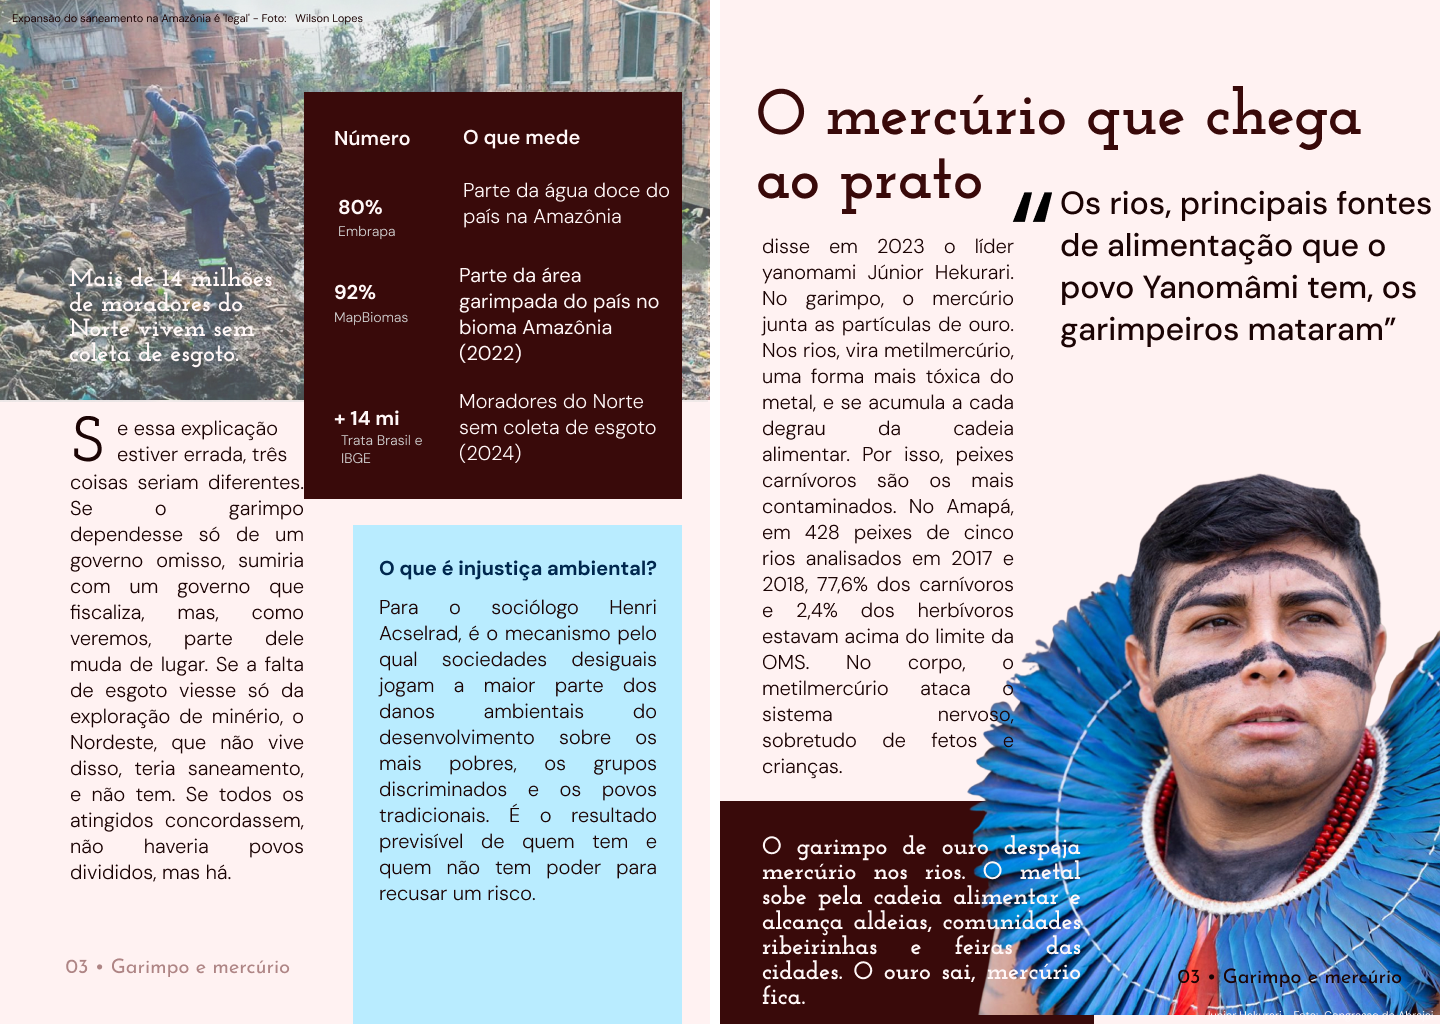
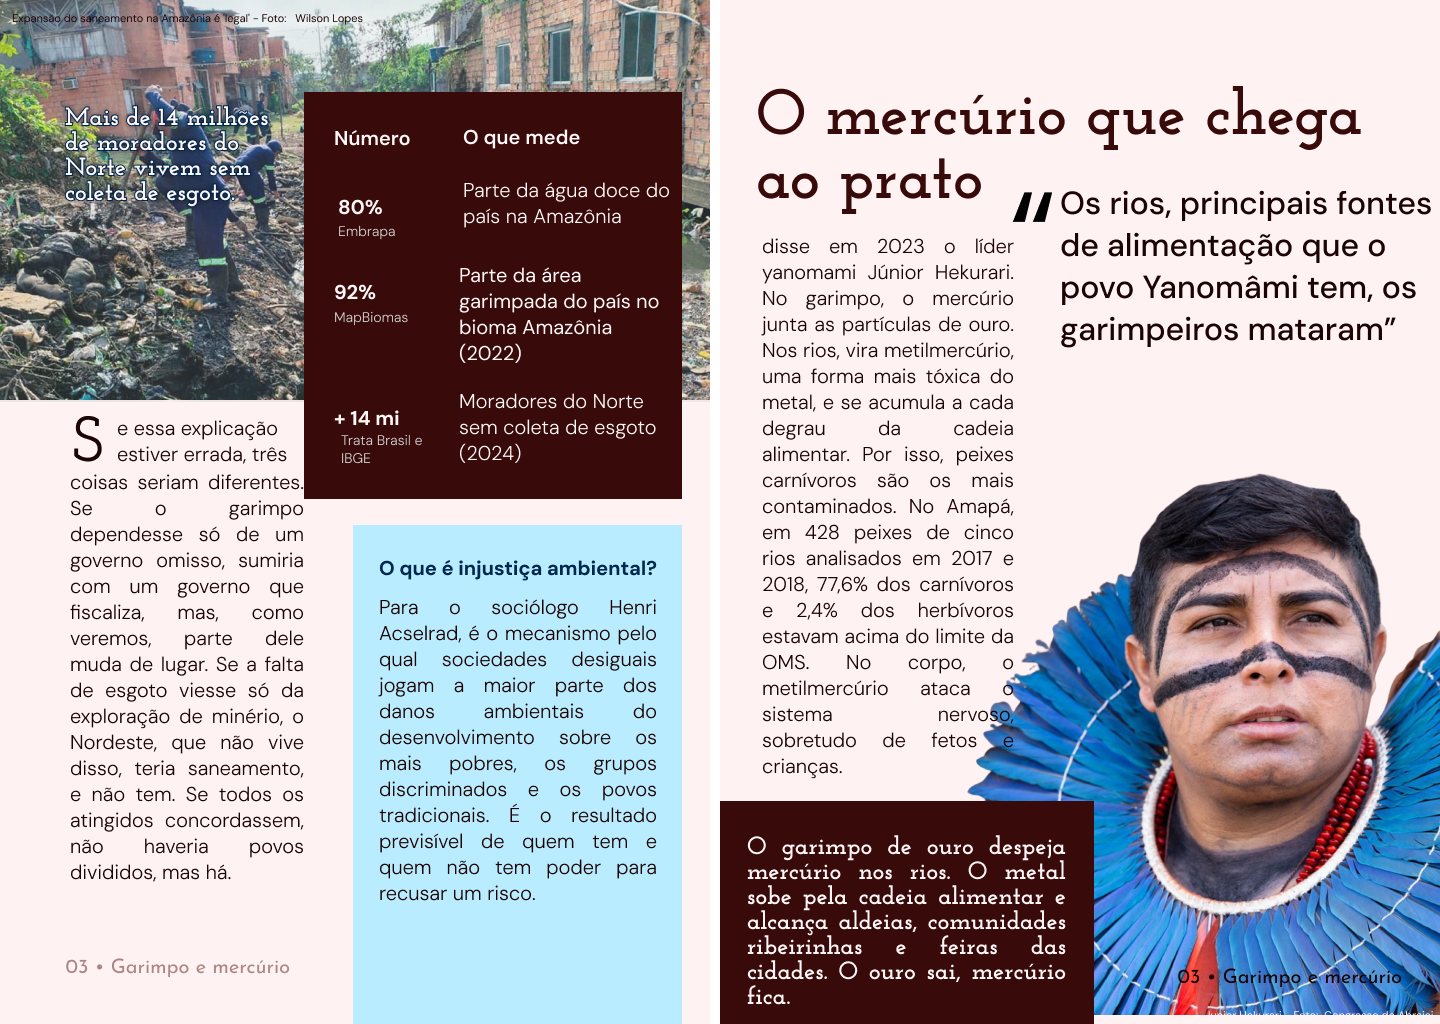
feat: versao nova

diff --git a/styles.css b/styles.css
@@ -2385,25 +2385,105 @@ html.figma-edition,body.figma-edition{background:#292929}
   }
 }
 
-/* Troca de páginas curta e contínua, inclusive nos saltos do sumário. */
+/* Folha de revista: a página parte da lombada e vira da direita para a esquerda. */
 .figma-edition .figma-scene.is-leaving{
-  opacity:0;transform:translate3d(-1.2%,0,0);
-  transition:opacity .62s cubic-bezier(.2,.7,.2,1),transform .62s cubic-bezier(.2,.7,.2,1),visibility .62s step-end
+  z-index:4;opacity:1;visibility:visible;pointer-events:none;
+  transform:none;transition:none;perspective:1800px
 }
-.figma-edition .figma-scene.is-leaving.leave-previous{transform:translate3d(1.2%,0,0)}
-.figma-edition .figma-scene.is-leaving .figma-frame,
-.figma-edition .figma-scene.is-leaving.leave-next .figma-frame,
-.figma-edition .figma-scene.is-leaving.leave-previous .figma-frame,
-.figma-edition .figma-scene.is-active.enter-next:not(.is-entering) .figma-frame,
-.figma-edition .figma-scene.is-active.enter-previous:not(.is-entering) .figma-frame{
-  animation:none;transform:none;filter:none;box-shadow:none
+/* A folha gira no wrapper .figma-page-zoom. Neutraliza a animação legada
+   no frame interno para não somar um segundo giro de 180° (360° no total). */
+.figma-edition .figma-scene.is-leaving .figma-page-zoom>.figma-frame{
+  animation:none!important;transform:none!important;filter:none!important;
+  transform-origin:50% 50%!important;overflow:hidden!important
 }
-.figma-edition .figma-scene.is-leaving .figma-frame::before,
-.figma-edition .figma-scene.is-leaving .figma-frame::after{display:none}
-.figma-edition .figma-scene.is-entering.enter-next .figma-frame,
-.figma-edition .figma-scene.is-entering.enter-previous .figma-frame{transform:translate3d(1.2%,0,0);filter:none}
-.figma-edition .figma-scene.is-entering.enter-previous .figma-frame{transform:translate3d(-1.2%,0,0)}
-.figma-edition .figma-scene:not(.is-entering) .figma-frame{transition:transform .62s cubic-bezier(.2,.7,.2,1)}
+.figma-edition .figma-scene.is-leaving .figma-page-zoom>.figma-frame::before,
+.figma-edition .figma-scene.is-leaving .figma-page-zoom>.figma-frame::after{display:none!important}
+.figma-edition .figma-scene:not(.is-active){transition:opacity 0s,visibility 0s step-end}
+.figma-edition .figma-scene.is-leaving .figma-page-scroll{
+  overflow:visible;transform-style:preserve-3d
+}
+.figma-edition .figma-page-zoom{
+  transform-style:preserve-3d;backface-visibility:visible;
+  box-shadow:0 .8rem 1.65rem rgb(38 9 8 / 16%),0 2px 0 rgb(255 255 255 / 72%);
+  will-change:transform,opacity,box-shadow
+}
+.figma-edition .figma-scene.is-turned-next .figma-page-zoom{
+  transform-origin:0% 50%;transform:translateZ(0) rotateY(-180deg);opacity:0;box-shadow:none
+}
+.figma-edition .figma-scene.is-turned-previous .figma-page-zoom{
+  transform-origin:100% 50%;transform:translateZ(0) rotateY(180deg);opacity:0;box-shadow:none
+}
+.figma-edition .figma-scene.is-entering .figma-page-zoom{opacity:0}
+.figma-edition .figma-scene.is-leaving .figma-frame:has(> .figma-export)::before{display:none}
+.figma-edition .figma-scene:not(.is-active) .figma-page-zoom{opacity:0}
+.figma-edition .figma-page-zoom>.figma-frame{
+  z-index:1;backface-visibility:hidden;transform-style:preserve-3d
+}
+.figma-edition .figma-page-zoom::before,
+.figma-edition .figma-page-zoom::after{
+  position:absolute;inset:0;pointer-events:none;content:"";transform-style:preserve-3d
+}
+.figma-edition .figma-scene.is-leaving.leave-next .figma-page-zoom{
+  transform-origin:0% 50%;animation:magazine-leaf-next 1s cubic-bezier(.48,.02,.18,1) both
+}
+.figma-edition .figma-scene.is-leaving.leave-previous .figma-page-zoom{
+  transform-origin:100% 50%;animation:magazine-leaf-previous 1s cubic-bezier(.48,.02,.18,1) both
+}
+/* A luz percorre a dobra; a face posterior tem papel quente, relevo e fibras discretas. */
+.figma-edition .figma-scene.is-leaving.leave-next .figma-page-zoom::before,
+.figma-edition .figma-scene.is-leaving.leave-previous .figma-page-zoom::before{
+  z-index:2;backface-visibility:hidden;opacity:0;
+  background:
+    linear-gradient(90deg,transparent 0%,rgb(30 7 6 / 7%) 30%,rgb(30 7 6 / 35%) 45%,rgb(255 252 244 / 88%) 49.2%,rgb(255 255 255 / 30%) 51%,rgb(34 8 7 / 30%) 55%,transparent 72%) 100% 0 / 38% 100% no-repeat,
+    linear-gradient(90deg,transparent 0%,rgb(20 4 4 / 12%) 100%) 100% 0 / 100% 100% no-repeat;
+  mix-blend-mode:multiply;animation:magazine-fold-glide 1s cubic-bezier(.48,.02,.18,1) both
+}
+.figma-edition .figma-scene.is-leaving.leave-previous .figma-page-zoom::before{
+  transform:scaleX(-1);animation-name:magazine-fold-glide-reverse
+}
+.figma-edition .figma-scene.is-leaving .figma-page-zoom::after{
+  z-index:0;transform:rotateY(180deg) translateZ(1px);backface-visibility:hidden;
+  border:1px solid rgb(105 71 59 / 16%);
+  background:
+    repeating-linear-gradient(0deg,rgb(88 53 41 / 2%) 0 1px,transparent 1px 4px),
+    linear-gradient(90deg,#e7d9d1 0%,#fffaf5 15%,#f3e9e2 46%,#d4c3b9 50%,#fffaf6 54%,#f5ece6 84%,#e3d5cd 100%);
+  box-shadow:inset 0 0 2rem rgb(57 10 10 / 13%),inset 0 0 0 1px rgb(255 255 255 / 55%)
+}
+.figma-edition .figma-scene.is-active.enter-next:not(.is-entering) .figma-page-zoom{
+  animation:magazine-page-arrive-next .82s cubic-bezier(.16,1,.3,1) both
+}
+.figma-edition .figma-scene.is-active.enter-previous:not(.is-entering) .figma-page-zoom{
+  animation:magazine-page-arrive-previous .82s cubic-bezier(.16,1,.3,1) both
+}
+@keyframes magazine-leaf-next{
+  0%{opacity:1;transform:translate3d(0,0,0) rotateY(0) rotateX(0);box-shadow:0 .8rem 1.65rem rgb(38 9 8 / 16%),0 2px 0 rgb(255 255 255 / 72%)}
+  12%{transform:translate3d(0,0,34px) rotateY(-8deg) rotateX(.7deg);box-shadow:0 1.15rem 2rem rgb(22 5 5 / 20%),0 3px 0 rgb(255 255 255 / 85%)}
+  38%{transform:translate3d(0,0,92px) rotateY(-52deg) rotateX(1.2deg);box-shadow:0 1.8rem 2.5rem rgb(22 5 5 / 24%),0 4px 0 rgb(255 255 255 / 88%)}
+  58%{transform:translate3d(0,0,116px) rotateY(-104deg) rotateX(-.7deg);box-shadow:0 1.5rem 2.3rem rgb(22 5 5 / 20%),0 3px 0 rgb(255 255 255 / 80%)}
+  82%{transform:translate3d(0,0,76px) rotateY(-154deg) rotateX(-.4deg);box-shadow:0 .75rem 1.6rem rgb(22 5 5 / 15%),0 2px 0 rgb(255 255 255 / 72%)}
+  94%{opacity:1;transform:translate3d(0,0,25px) rotateY(-176deg) rotateX(0);box-shadow:0 .4rem .9rem rgb(22 5 5 / 8%),0 1px 0 rgb(255 255 255 / 55%)}
+  100%{opacity:0;transform:translate3d(0,0,0) rotateY(-180deg) rotateX(0);box-shadow:none}
+}
+@keyframes magazine-leaf-previous{
+  0%{opacity:1;transform:translate3d(0,0,0) rotateY(0) rotateX(0);box-shadow:0 .8rem 1.65rem rgb(38 9 8 / 16%),0 2px 0 rgb(255 255 255 / 72%)}
+  12%{transform:translate3d(0,0,34px) rotateY(8deg) rotateX(-.7deg);box-shadow:0 1.15rem 2rem rgb(22 5 5 / 20%),0 3px 0 rgb(255 255 255 / 85%)}
+  38%{transform:translate3d(0,0,92px) rotateY(52deg) rotateX(-1.2deg);box-shadow:0 1.8rem 2.5rem rgb(22 5 5 / 24%),0 4px 0 rgb(255 255 255 / 88%)}
+  58%{transform:translate3d(0,0,116px) rotateY(104deg) rotateX(.7deg);box-shadow:0 1.5rem 2.3rem rgb(22 5 5 / 20%),0 3px 0 rgb(255 255 255 / 80%)}
+  82%{transform:translate3d(0,0,76px) rotateY(154deg) rotateX(.4deg);box-shadow:0 .75rem 1.6rem rgb(22 5 5 / 15%),0 2px 0 rgb(255 255 255 / 72%)}
+  94%{opacity:1;transform:translate3d(0,0,25px) rotateY(176deg) rotateX(0);box-shadow:0 .4rem .9rem rgb(22 5 5 / 8%),0 1px 0 rgb(255 255 255 / 55%)}
+  100%{opacity:0;transform:translate3d(0,0,0) rotateY(180deg) rotateX(0);box-shadow:none}
+}
+@keyframes magazine-fold-glide{0%{opacity:.35;background-position:100% 0,100% 0}42%{opacity:1;background-position:45% 0,100% 0}82%{opacity:.72;background-position:0 0,0 0}100%{opacity:0;background-position:0 0,0 0}}
+@keyframes magazine-fold-glide-reverse{0%{opacity:.35;background-position:100% 0,100% 0}42%{opacity:1;background-position:45% 0,100% 0}82%{opacity:.72;background-position:0 0,0 0}100%{opacity:0;background-position:0 0,0 0}}
+@keyframes magazine-page-arrive-next{from{opacity:.72;transform:translate3d(2.8%,0,-64px) rotateY(-3deg) scale(.985)}to{opacity:1;transform:translate3d(0,0,0) rotateY(0) scale(1)}}
+@keyframes magazine-page-arrive-previous{from{opacity:.72;transform:translate3d(-2.8%,0,-64px) rotateY(3deg) scale(.985)}to{opacity:1;transform:translate3d(0,0,0) rotateY(0) scale(1)}}
+@media(prefers-reduced-motion:reduce){
+  .figma-edition .figma-scene.is-leaving{perspective:none}
+  .figma-edition .figma-scene.is-leaving .figma-page-scroll{overflow:auto}
+  .figma-edition .figma-page-zoom{will-change:auto}
+  .figma-edition .figma-scene.is-leaving .figma-page-zoom::before,
+  .figma-edition .figma-scene.is-leaving .figma-page-zoom::after{display:none}
+}
 
 /* Gráficos vetoriais ocupam exatamente os recortes removidos das exportações. */
 .figma-edition .figma-chart-vector{
@@ -2436,4 +2516,72 @@ html.figma-edition,body.figma-edition{background:#292929}
   .figma-edition .figma-scene.is-active .figma-export,
   .figma-edition .figma-scene.is-active .figma-chart-vector,
   .figma-edition .figma-scene.is-active .figma-frame--cover .figma-cover__composition{animation:none;opacity:1;transform:none}
+}
+
+/* Em alguns capítulos, a folha ganha uma borda ondulada e um brilho de água. */
+.figma-edition .figma-scene.is-leaving.turn-water.leave-next .figma-page-zoom{
+  animation:magazine-water-turn-next 1.12s cubic-bezier(.46,.02,.18,1) both
+}
+.figma-edition .figma-scene.is-leaving.turn-water.leave-previous .figma-page-zoom{
+  animation:magazine-water-turn-previous 1.12s cubic-bezier(.46,.02,.18,1) both
+}
+.figma-edition .figma-scene.is-leaving.turn-water .figma-page-zoom::before{
+  z-index:3;mix-blend-mode:screen;opacity:0;
+  background:linear-gradient(90deg,transparent 36%,rgb(185 236 255 / 10%) 43%,rgb(185 236 255 / 76%) 49.5%,rgb(255 255 255 / 72%) 51%,rgb(185 236 255 / 12%) 58%,transparent 70%) 100% 0 / 58% 100% no-repeat;
+  animation:magazine-water-glint 1.12s cubic-bezier(.46,.02,.18,1) both
+}
+@keyframes magazine-water-turn-next{
+  0%{opacity:1;transform:translate3d(0,0,0) rotateY(0);clip-path:polygon(0 0,100% 0,100% 100%,0 100%)}
+  26%{transform:translate3d(0,0,64px) rotateY(-28deg);clip-path:polygon(0 0,100% 0,99% 23%,100% 39%,98.8% 55%,100% 72%,99% 86%,100% 100%,0 100%)}
+  54%{transform:translate3d(0,0,112px) rotateY(-94deg);clip-path:polygon(0 0,100% 0,98.8% 23%,100% 39%,98.4% 55%,100% 72%,98.8% 86%,100% 100%,0 100%)}
+  82%{transform:translate3d(0,0,58px) rotateY(-154deg);clip-path:polygon(0 0,100% 0,99.3% 23%,100% 39%,99% 55%,100% 72%,99.2% 86%,100% 100%,0 100%)}
+  94%{opacity:1;transform:translate3d(0,0,20px) rotateY(-176deg);clip-path:polygon(0 0,100% 0,100% 100%,0 100%)}
+  100%{opacity:0;transform:translate3d(0,0,0) rotateY(-180deg);clip-path:polygon(0 0,100% 0,100% 100%,0 100%)}
+}
+@keyframes magazine-water-turn-previous{
+  0%{opacity:1;transform:translate3d(0,0,0) rotateY(0);clip-path:polygon(0 0,100% 0,100% 100%,0 100%)}
+  26%{transform:translate3d(0,0,64px) rotateY(28deg);clip-path:polygon(0 0,100% 0,100% 100%,0 100%,1% 86%,0 72%,1.2% 55%,0 39%,1% 23%)}
+  54%{transform:translate3d(0,0,112px) rotateY(94deg);clip-path:polygon(0 0,100% 0,100% 100%,0 100%,1.2% 86%,0 72%,1.6% 55%,0 39%,1.2% 23%)}
+  82%{transform:translate3d(0,0,58px) rotateY(154deg);clip-path:polygon(0 0,100% 0,100% 100%,0 100%,.8% 86%,0 72%,1% 55%,0 39%,.7% 23%)}
+  94%{opacity:1;transform:translate3d(0,0,20px) rotateY(176deg);clip-path:polygon(0 0,100% 0,100% 100%,0 100%)}
+  100%{opacity:0;transform:translate3d(0,0,0) rotateY(180deg);clip-path:polygon(0 0,100% 0,100% 100%,0 100%)}
+}
+@keyframes magazine-water-glint{0%{opacity:0;background-position:100% 0}30%{opacity:.95;background-position:58% 0}72%{opacity:.42;background-position:7% 0}100%{opacity:0;background-position:0 0}}
+
+/* Pequeno reflexo e círculos de onda reagem ao movimento e ao toque do leitor. */
+.figma-edition .reader-water-cursor,
+.figma-edition .reader-water-ripple{
+  position:fixed;z-index:12;pointer-events:none;border:1px solid rgb(185 236 255 / 50%);
+  border-radius:50%;mix-blend-mode:screen
+}
+.figma-edition .reader-water-cursor{
+  left:var(--water-x,-10rem);top:var(--water-y,-10rem);width:clamp(4rem,7vw,7.5rem);aspect-ratio:1;
+  opacity:0;transform:translate(-50%,-50%) scale(.48);
+  background:radial-gradient(circle,rgb(185 236 255 / 10%),rgb(185 236 255 / 2%) 48%,transparent 72%);
+  box-shadow:inset 0 0 1.1rem rgb(185 236 255 / 15%),0 0 1.3rem rgb(185 236 255 / 10%);
+  transition:opacity .28s ease,transform .5s cubic-bezier(.16,1,.3,1)
+}
+.figma-edition .reader-water-cursor::before,
+.figma-edition .reader-water-cursor::after{position:absolute;inset:16%;border:1px solid rgb(185 236 255 / 34%);border-radius:50%;content:""}
+.figma-edition .reader-water-cursor::after{inset:33%;border-color:rgb(255 255 255 / 28%)}
+.figma-edition .reader-water-cursor.is-visible{opacity:.56;transform:translate(-50%,-50%) scale(1)}
+.figma-edition .reader-water-ripple{
+  left:var(--ripple-x);top:var(--ripple-y);width:clamp(4.5rem,8vw,8rem);aspect-ratio:1;
+  opacity:0;box-shadow:0 0 1.2rem rgb(185 236 255 / 16%);
+  animation:reader-water-touch .9s cubic-bezier(.16,1,.3,1) both
+}
+.figma-edition .reader-water-ripple::after{
+  position:absolute;inset:18%;border:1px solid rgb(255 255 255 / 45%);border-radius:50%;content:"";
+  animation:reader-water-touch .9s .08s cubic-bezier(.16,1,.3,1) both
+}
+@keyframes reader-water-touch{
+  0%{opacity:0;transform:translate(-50%,-50%) scale(.16)}
+  18%{opacity:.48}
+  100%{opacity:0;transform:translate(-50%,-50%) scale(1.45)}
+}
+@media(hover:none), (pointer:coarse){.figma-edition .reader-water-cursor{display:none}}
+@media(prefers-reduced-motion:reduce){
+  .figma-edition .figma-scene.is-leaving.turn-water .figma-page-zoom,
+  .figma-edition .figma-scene.is-leaving.turn-water .figma-page-zoom::before{animation:none}
+  .figma-edition .reader-water-cursor,.figma-edition .reader-water-ripple{display:none}
 }

diff --git a/figma-reader.js b/figma-reader.js
@@ -5,7 +5,7 @@
     ['sumario-editorial', 'Sumário e editorial', '03-sumario-editorial.png'],
     ['editorial', 'Editorial', '04-editorial.png'],
     ['contextualizacao', 'Contextualização e introdução', '05-introducao.png'],
-    ['garimpo-1', 'Garimpo e mercúrio', '06-garimpo-1.png'],
+    ['garimpo-1', 'Garimpo e mercúrio', '06-garimpo-1.png?v=2'],
     ['garimpo-2', 'Garimpo e mercúrio', '07-garimpo-2.png'],
     ['esgoto', 'Esgoto e saneamento', '08-esgoto.png'],
     ['esgoto-transformacao', 'Esgoto e transformação do território', '09-esgoto-transformacao.png'],
@@ -230,6 +230,7 @@
       let speechToken = 0;
       let chartReplay = 0;
       const motionAllowed = !window.matchMedia('(prefers-reduced-motion: reduce)').matches;
+      const waterTurnPages = new Set(['garimpo-1', 'esgoto-transformacao', 'politicas-4', 'conclusao-referencias']);
       const voiceButton = document.querySelector('#voice-toggle');
       const zoomOut = document.querySelector('#zoom-out');
       const zoomIn = document.querySelector('#zoom-in');
@@ -371,14 +372,17 @@
         replayChartMotion(index);
         const outgoing = scenes[activeScene];
         const incoming = scenes[index];
+        const waterTurn = motionAllowed && waterTurnPages.has(incoming.id);
         window.clearTimeout(transitionTimer);
         scenes.forEach((scene) => {
-          if (scene !== outgoing && scene !== incoming) scene.classList.remove('is-active', 'is-leaving', 'leave-next', 'leave-previous', 'is-entering', 'enter-next', 'enter-previous');
+          if (scene !== outgoing && scene !== incoming) scene.classList.remove('is-active', 'is-leaving', 'leave-next', 'leave-previous', 'is-entering', 'enter-next', 'enter-previous', 'is-turned-next', 'is-turned-previous', 'turn-water');
         });
         outgoing.classList.remove('enter-next', 'enter-previous', 'is-entering');
+        outgoing.classList.remove('turn-water');
         outgoing.classList.add('is-leaving', `leave-${direction}`);
+        if (waterTurn) outgoing.classList.add('turn-water');
         outgoing.setAttribute('aria-hidden', 'true');
-        incoming.classList.remove('is-leaving', 'leave-next', 'leave-previous');
+        incoming.classList.remove('is-leaving', 'leave-next', 'leave-previous', 'is-turned-next', 'is-turned-previous', 'turn-water');
         incoming.classList.add('is-active', 'is-entering', `enter-${direction}`);
         incoming.setAttribute('aria-hidden', 'false');
         activeScene = index;
@@ -386,10 +390,11 @@
         ensureSceneImage(index + 1);
         requestAnimationFrame(() => requestAnimationFrame(() => incoming.classList.remove('is-entering')));
         transitionTimer = window.setTimeout(() => {
-          outgoing.classList.remove('is-active', 'is-leaving', 'leave-next', 'leave-previous');
+          outgoing.classList.add(`is-turned-${direction}`);
+          outgoing.classList.remove('is-active', 'is-leaving', 'leave-next', 'leave-previous', 'turn-water');
           incoming.classList.remove('is-entering', 'enter-next', 'enter-previous');
           outgoing.querySelector('iframe[data-video-src]')?.removeAttribute('src');
-        }, motionAllowed ? 640 : 0);
+        }, motionAllowed ? (waterTurn ? 1160 : 1040) : 0);
       };
 
       const goToSlot = (slot) => {
@@ -408,6 +413,47 @@
         const slots = slotsForScene(index);
         goToSlot(slots[0]);
       };
+
+      // Um reflexo aquático acompanha o mouse, com ondulações leves ao tocar
+      // na página. O arraste horizontal também vira o fólio, como numa revista.
+      const waterCursor = document.createElement('div');
+      waterCursor.className = 'reader-water-cursor';
+      waterCursor.setAttribute('aria-hidden', 'true');
+      magazine.append(waterCursor);
+      let waterCursorTimer = 0;
+      let pageDrag = null;
+      const showWaterRipple = (x, y) => {
+        const ripple = document.createElement('span');
+        ripple.className = 'reader-water-ripple';
+        ripple.style.setProperty('--ripple-x', `${x}px`);
+        ripple.style.setProperty('--ripple-y', `${y}px`);
+        magazine.append(ripple);
+        ripple.addEventListener('animationend', () => ripple.remove(), { once: true });
+      };
+      magazine.addEventListener('pointermove', (event) => {
+        if (event.pointerType !== 'mouse' || !event.target.closest?.('.figma-page-scroll')) return;
+        waterCursor.style.setProperty('--water-x', `${event.clientX}px`);
+        waterCursor.style.setProperty('--water-y', `${event.clientY}px`);
+        waterCursor.classList.add('is-visible');
+        window.clearTimeout(waterCursorTimer);
+        waterCursorTimer = window.setTimeout(() => waterCursor.classList.remove('is-visible'), 520);
+      }, { passive: true });
+      magazine.addEventListener('pointerleave', () => waterCursor.classList.remove('is-visible'));
+      magazine.addEventListener('pointerdown', (event) => {
+        if (event.button !== 0 || !event.target.closest?.('.figma-page-scroll')) return;
+        if (event.target.closest('button,a,input,[contenteditable="true"]')) return;
+        showWaterRipple(event.clientX, event.clientY);
+        if (readerZoom <= 1.05) pageDrag = { x: event.clientX, y: event.clientY, pointerId: event.pointerId };
+      });
+      document.addEventListener('pointerup', (event) => {
+        if (!pageDrag || event.pointerId !== pageDrag.pointerId) return;
+        const deltaX = event.clientX - pageDrag.x;
+        const deltaY = event.clientY - pageDrag.y;
+        pageDrag = null;
+        if (Math.abs(deltaX) < 76 || Math.abs(deltaX) < Math.abs(deltaY) * 1.25) return;
+        goToSlot(activeSlot + (deltaX < 0 ? 1 : -1));
+      });
+      document.addEventListener('pointercancel', () => { pageDrag = null; });
 
       // Nas duas capas, revelar os controles quando o ponteiro se aproxima da borda inferior.
       document.addEventListener('pointermove', (event) => {

diff --git a/index.html b/index.html
@@ -6,9 +6,9 @@
   <meta name="theme-color" content="#661414">
   <meta name="description" content="Idibi — rios, território e vida na Amazônia.">
   <title>Idibi — Rios que adoecem</title>
-  <link rel="stylesheet" href="styles.css?v=38">
+  <link rel="stylesheet" href="styles.css?v=43">
   <script defer src="page-narration.js?v=1"></script>
-  <script defer src="figma-reader.js?v=27"></script>
+  <script defer src="figma-reader.js?v=31"></script>
 </head>
 <body>
   <main id="magazine" aria-label="Revista digital Idibi"></main>
